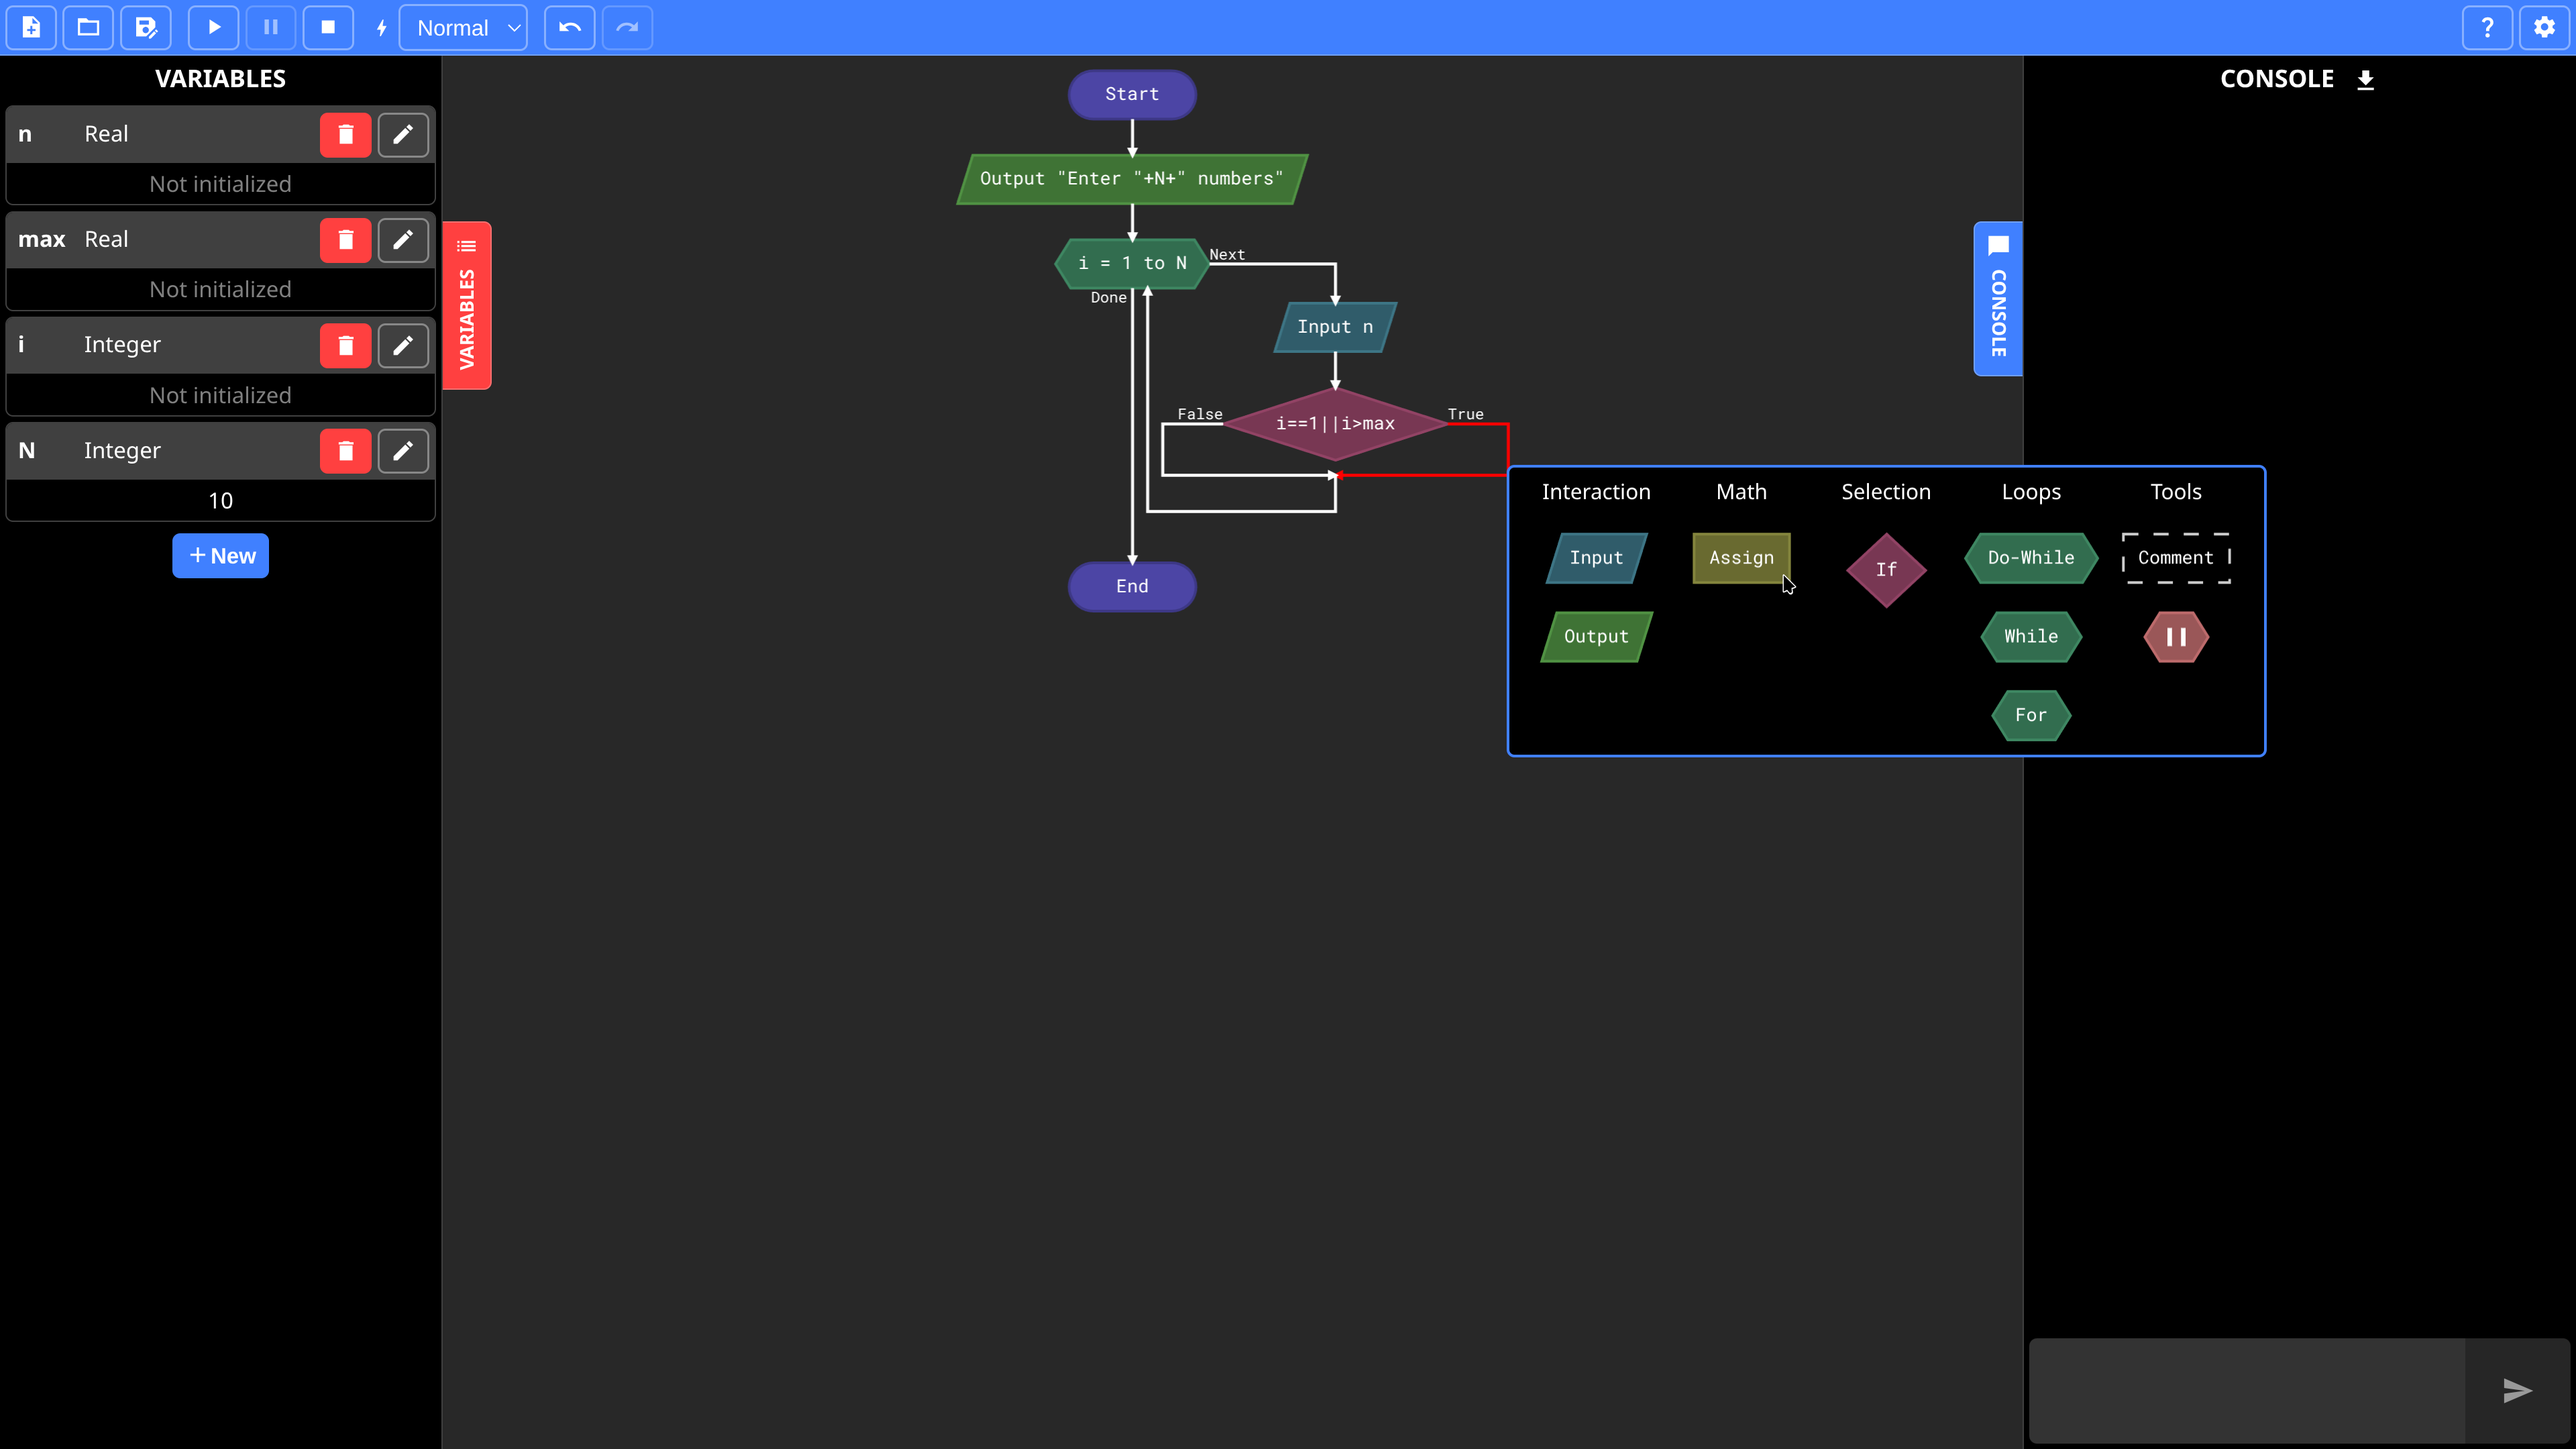
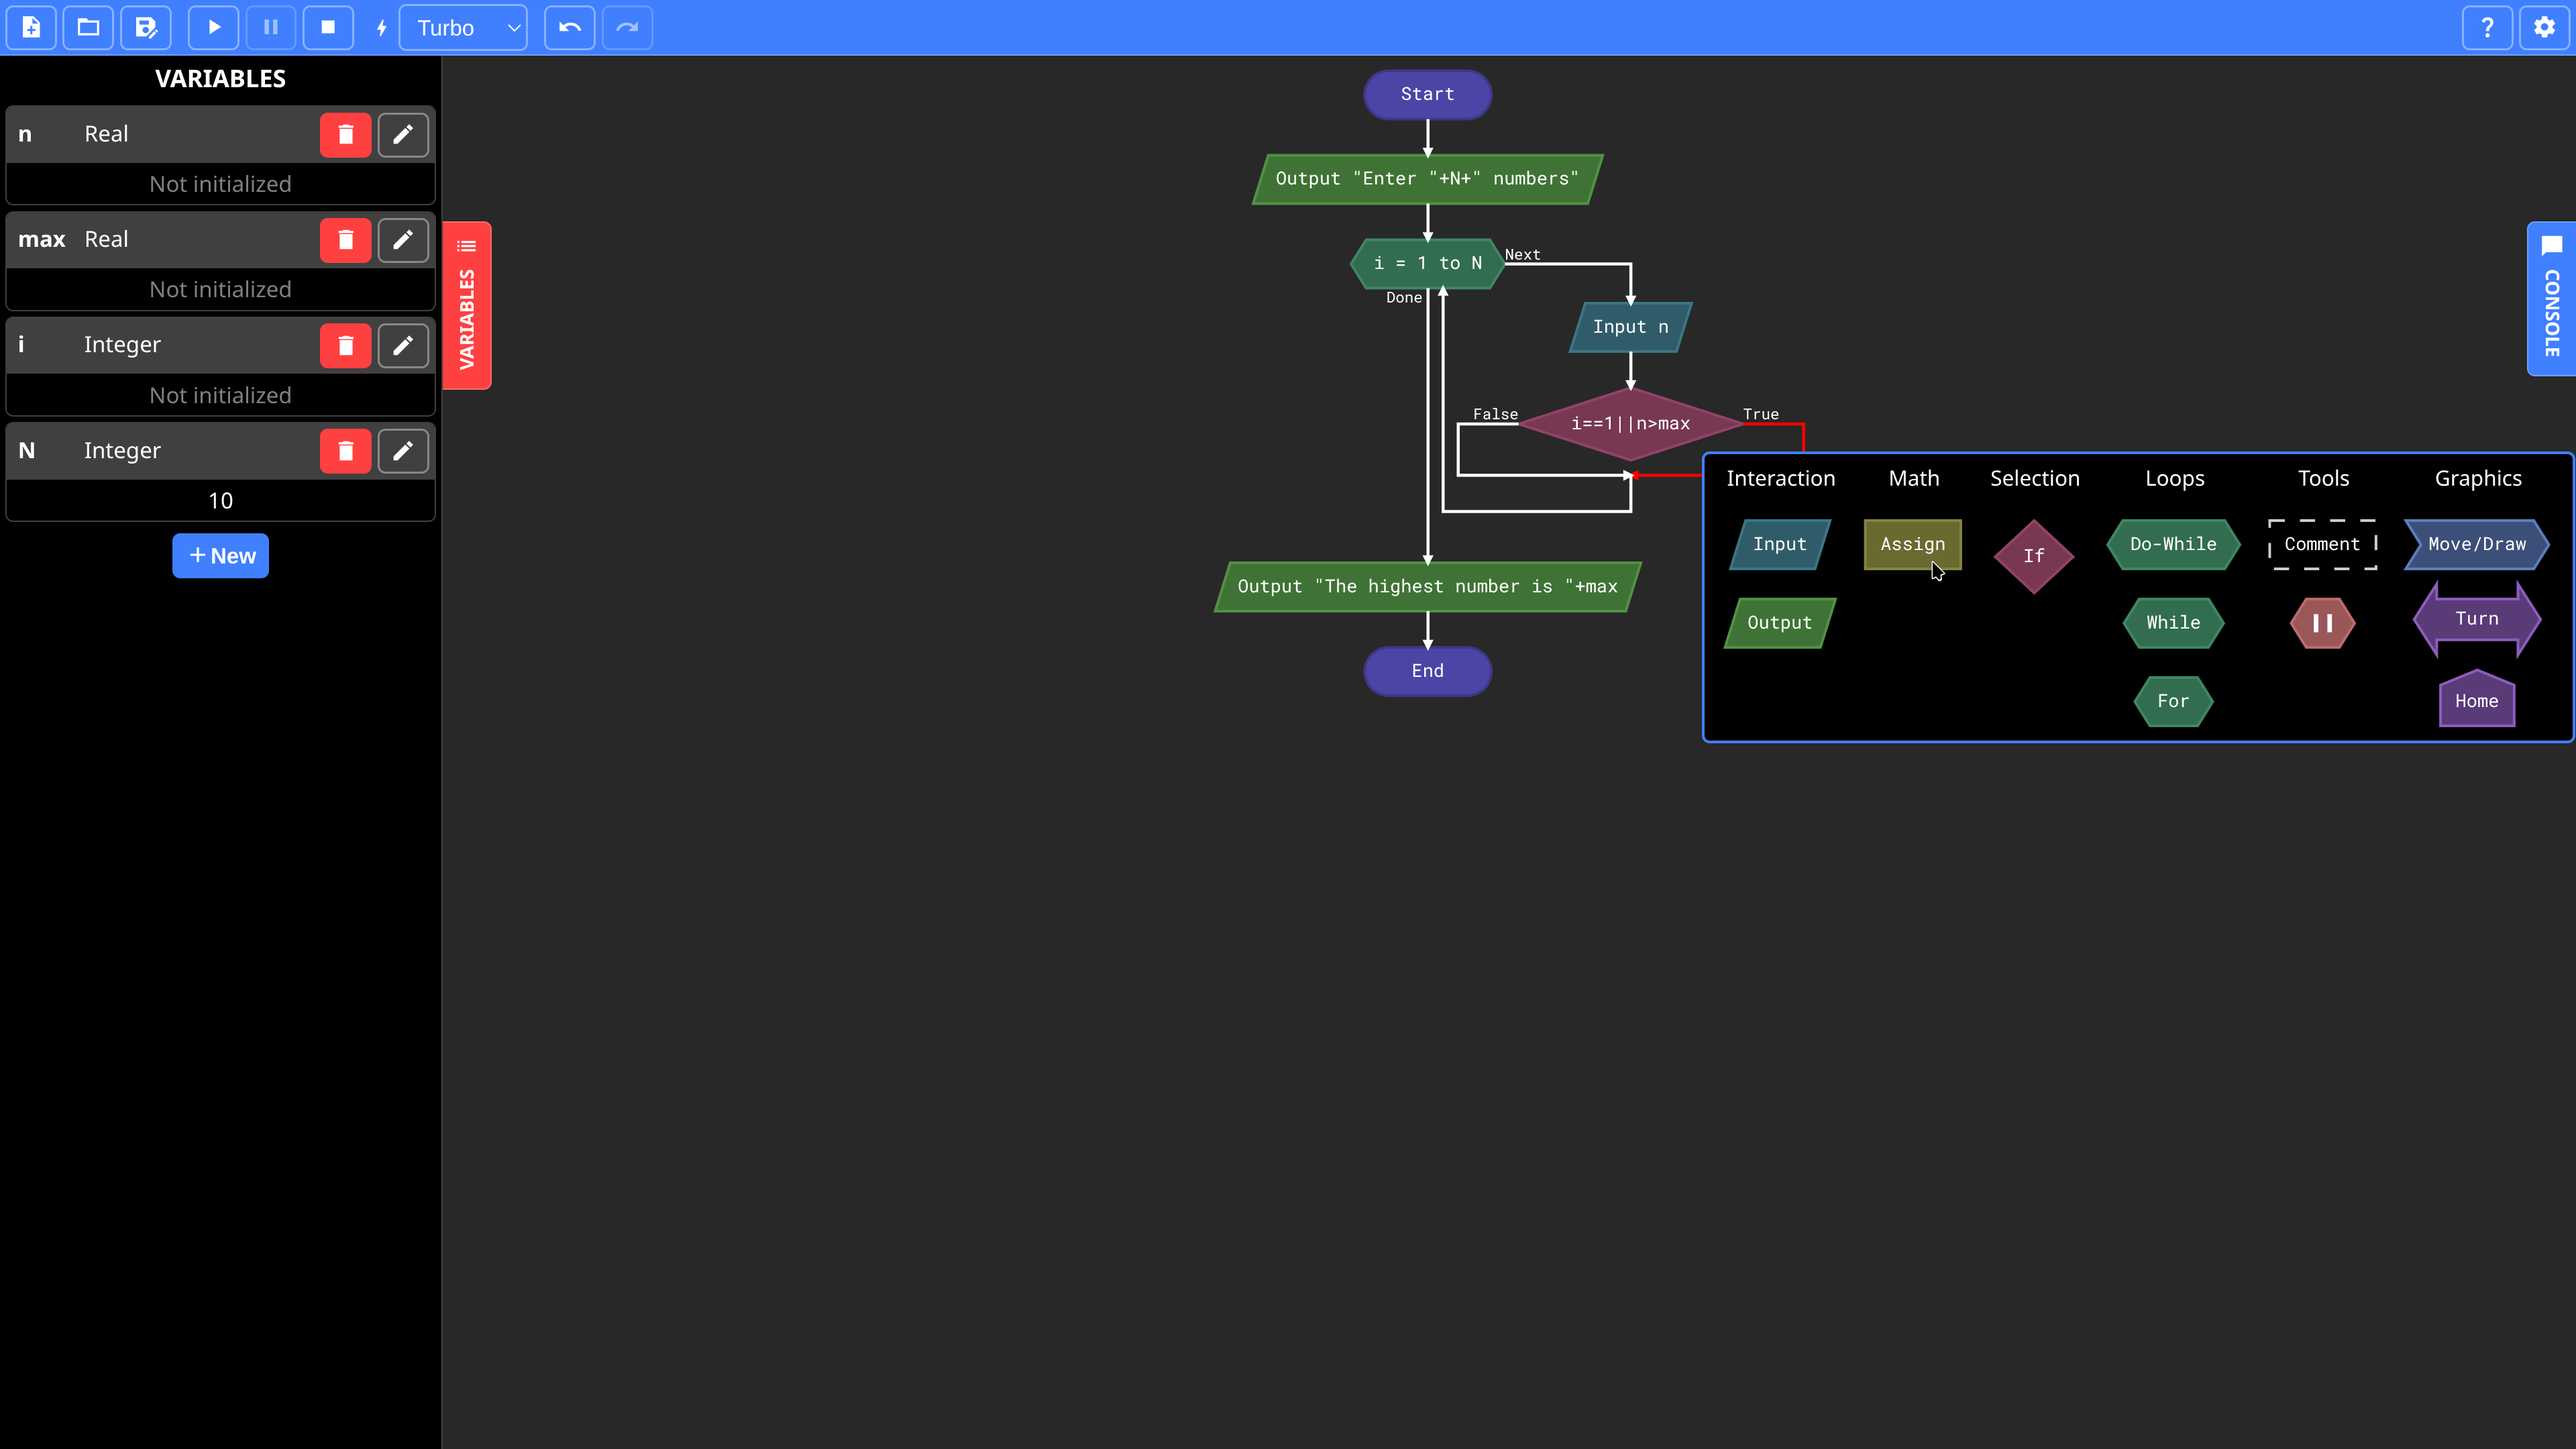
Preparations for 1.2.0 release

Changed region(s): [[0.375, 0.031, 1.0, 0.9616], [0.7812, 0.9926, 1.0, 1.0], [0.1562, 0.0, 0.1875, 0.031]]

diff --git a/index.html b/index.html
@@ -536,7 +536,7 @@
         <div id="settings_about" class="settings_tab">
             <div class="autoVert">
                 <div><img src="images/logo_large.webp" id="about_logo" alt="Logo"></div>
-                <div>Flogo - Version 1.2.0 (dev)<span id="versionTypeBadge"></span></div>
+                <div>Flogo - Version 1.2.0<span id="versionTypeBadge"></span></div>
                 <div>Made with ❤ by <a href="https://fdossena.com" target="_blank">Federico Dossena</a></div>
                 <div>Distributed under the <a href="javascript:showLicense()">GNU AGPL v3</a> license</div>
                 <div><a href="https://fdossena.com/?p=flogo/index.frag" target="_blank">Website</a> | <a href="https://github.com/adolfintel/flogo" target="_blank">GitHub</a></div>

diff --git a/sw.js b/sw.js
@@ -1,6 +1,6 @@
 //Service worker for PWA
 
-const cacheName = "flogo-v1_2_0_dev"
+const cacheName = "flogo-v1_2_0_release"
 
 const appFiles = [
     "index.html",

diff --git a/README.md b/README.md
@@ -12,6 +12,7 @@ __Flogo__ is a free and open source programming language for beginners, designed
 * All standard loop types: Do-While, While and For (basic-style)
 * Lazy evaluation of boolean expressions
 * Lots of built-in functions (see documentation for a complete list)
+* Turtle graphics
 * Execution speed control and step-by-step mode to better follow the flow of the program; a turbo mode is also available to run larger programs at maximum speed
 * Easy to use UI with Undo/Redo, Cut/Copy/Paste and keyboard shortcuts
 * Chat-like Input/Output UI, similar to Flowgorithm
@@ -23,8 +24,8 @@ __Flogo__ is a free and open source programming language for beginners, designed
 * Runs on all modern browsers, can be installed as a PWA and run completely offline
 
 ## Screenshots
-![Screenshot](.github/screenshot1.png)
 ![Screenshot](.github/screenshot2.png)
+![Screenshot](.github/screenshot1.png)
 ![Screenshot](.github/screenshot3.png)
 ![Screenshot](.github/screenshot4.png)
 ![Mobile screenshot](.github/screenshot5.png)
@@ -56,8 +57,12 @@ __Mini games__
 * [Rock, paper, scissors](https://downloads.fdossena.com/geth.php?r=flogo-demo-14)
 * [Quasar (similar to blackjack)](https://downloads.fdossena.com/geth.php?r=flogo-demo-15)
 
+__Turtle Graphics__
+* [Hexagon](https://downloads.fdossena.com/geth.php?r=flogo-demo-17)
+* [Regular polygon](https://downloads.fdossena.com/geth.php?r=flogo-demo-18)
+* [Brick wall](https://downloads.fdossena.com/geth.php?r=flogo-demo-19)
+
 ## Future features
-* Turtle graphics (Planned for v1.2 series)
 * Arrays (Planned for v1.3 series)
 * Functions (Planned for v1.4 series)
 
